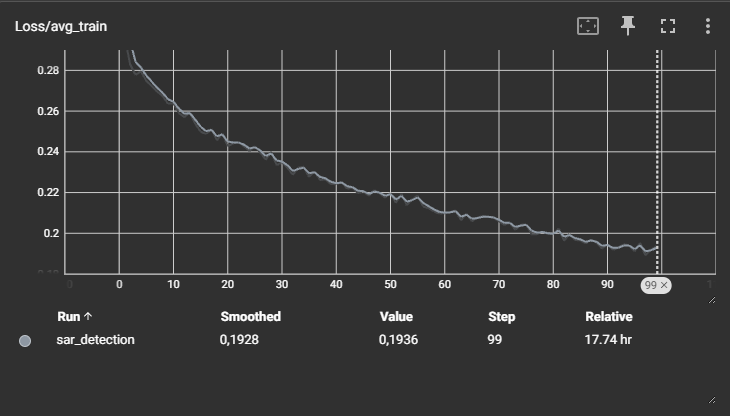
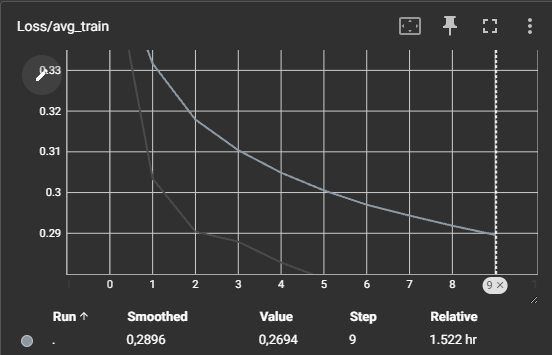
readme and plots

diff --git a/README.md b/README.md
@@ -1,73 +1,102 @@
 # 🚢 SARScope Ship Detection 🚢
 
+Welcome to the SARScope Ship Detection project! 🌊 This repository is dedicated to detecting ships in Synthetic Aperture Radar (SAR) images using a FastRCNN model. Our goal is to accurately detect and classify each ship within an image. For more details on the FastRCNN model, check out the [paper](https://arxiv.org/abs/1506.01497).
+
 ## Table of Contents
+
 - [About](#about)
 - [Dataset](#dataset)
 - [Setup](#setup)
+- [Files](#files)
 - [Training Process](#training-process)
 - [Performance Metrics](#performance-metrics)
 - [Limitations and Future Work](#limitations-and-future-work)
 - [Acknowledgments](#acknowledgments)
 
 ## About
-Welcome to the SARScope Ship Detection project! 🌊 This repository is dedicated to detecting ships in Synthetic Aperture Radar (SAR) images using a FastRCNN model. Our goal is to accurately detect and classify each ship within an image. For more details on the FastRCNN model, check out the [paper](https://arxiv.org/abs/1506.01497).
+
+The SARScope Ship Detection project aims to detect ships in SAR images using a FastRCNN model. This project is designed to help in maritime surveillance and monitoring by accurately identifying ships in radar images.
 
 ## Dataset
+
 We use an open-source dataset from Kaggle for this project:
 📊 [SARScope: Unveiling the Maritime Landscape](https://www.kaggle.com/datasets/kailaspsudheer/sarscope-unveiling-the-maritime-landscape)
 
 ## Setup
+
 To get started with this project, follow these steps:
+
 1. Download the repository to your local machine.
 2. Update the path to the dataset in the Jupyter notebook file:
-```
+
    base_path = 'YOUR_PATH'  # path to your data
-```
 
 3. Ensure all dependencies are installed.
 
+## Files
+
+Here are the main Python files in the project:
+
+- `main.py`: The main script to run the ship detection model. This script loads the model, processes the input SAR images, and outputs the detection results.
+- `model.py`: Contains the implementation of the FastRCNN model used for ship detection. This includes the model architecture and training loop.
+- `utils.py`: Utility functions used across the project, such as helper functions for data processing, visualization, and evaluation metrics.
+- `train.py`: Script to train the model. It sets up the training process, including data loading, model training, and validation.
+- `predict.py`: Script to evaluate the performance of the trained model on the test dataset. It calculates and logs various performance metrics.
+- `config.py`: Configuration file that contains path and options for the project
 ## Training Process 📈
+
 The model was trained using the following setup:
+
 - **GPU**: Nvidia GeForce RTX 4060 with 8GB RAM
-- **Epochs**: 100
+- **Epochs**: 10
 
 Here are some visualizations from the training process:
 
-![mAP during the training](assets/map_score.png "mAP during the training")
-![Loss during the training](assets/loss_training.png "Loss during the training")
+![mAP during the training](assets/map_score.png)
+![Loss during the training](assets/loss_training.png)
 
 The best model weights were achieved at epoch 64 (starting from 0).
 
-## Performance Metrics 
+## Performance Metrics
 
 Below are the performance metrics on the test data:
 
 | Metric                | Value               |
 |-----------------------|---------------------|
-| **map**               | 0.5436151623725891  |
-| **map_50**            | 0.843625545501709   |
-| **map_75**            | 0.6185094714164734  |
-| **map_small**         | 0.49138033390045166 |
-| **map_medium**        | 0.6922172904014587  |
-| **map_large**         | 0.6687196493148804  |
-| **mar_1**             | 0.25759682059288025 |
-| **mar_10**            | 0.562661349773407   |
-| **mar_100**           | 0.6185203790664673  |
-| **mar_small**         | 0.5695593953132629  |
-| **mar_medium**        | 0.7633684277534485  |
-| **mar_large**         | 0.734883725643158   |
+| **map**               | 0.5215848088264465  |
+| **map_50**            | 0.8285369873046875  |
+| **map_75**            | 0.5805584788322449  |
+| **map_small**         | 0.46896490454673767 |
+| **map_medium**        | 0.6799818277359009  |
+| **map_large**         | 0.5940195322036743  |
+| **mar_1**             | 0.2477656453847885  |
+| **mar_10**            | 0.5351539254188538  |
+| **mar_100**           | 0.5943892598152161  |
+| **mar_small**         | 0.5425901412963867  |
+| **mar_medium**        | 0.7498947381973267  |
+| **mar_large**         | 0.6860465407371521  |
 | **map_per_class**     | -1.0                |
 | **mar_100_per_class** | -1.0                |
 | **classes**           | 1                   |
 
-## Limitations and Future Work 🏁
-The current model has limitations, particularly with images containing multiple ships. Future improvements could include:
-- 🔹 Adding more data
-- 🔹 Enhancing data augmentation techniques
-- 🔹 Experimenting with different model backbones
-- 🔹 Fine-tuning hyperparameters
 
+## Plots
+
+In this folder, you will find plots after a prediction from the model.
+They are organized by the threshold used for the prediction.
+
+As we can see, the model performs well with a threshold of 0.5, but loses accuracy with a threshold of 0.9 (multiple ships in the image).
+
+## Limitations and Future Work 🏁
+
+The current model has limitations, particularly with images containing multiple ships. Future improvements could include:
+
+- [ ] More epochs during training to enhance accuracy. ⏳📈
+- [ ] Automate training with a YAML file. ✅📄
+- [ ] Test multiple backbones to improve model performance. 🏋♂🔁
+- [x] Add images and graphs to illustrate results. 📊📈
 ## Acknowledgments 📚
+
 - Mask R-CNN: [arXiv:1703.06870](https://arxiv.org/abs/1703.06870)
-- 
+
 This project was enhanced with the help of my Mistral AI Agent.
